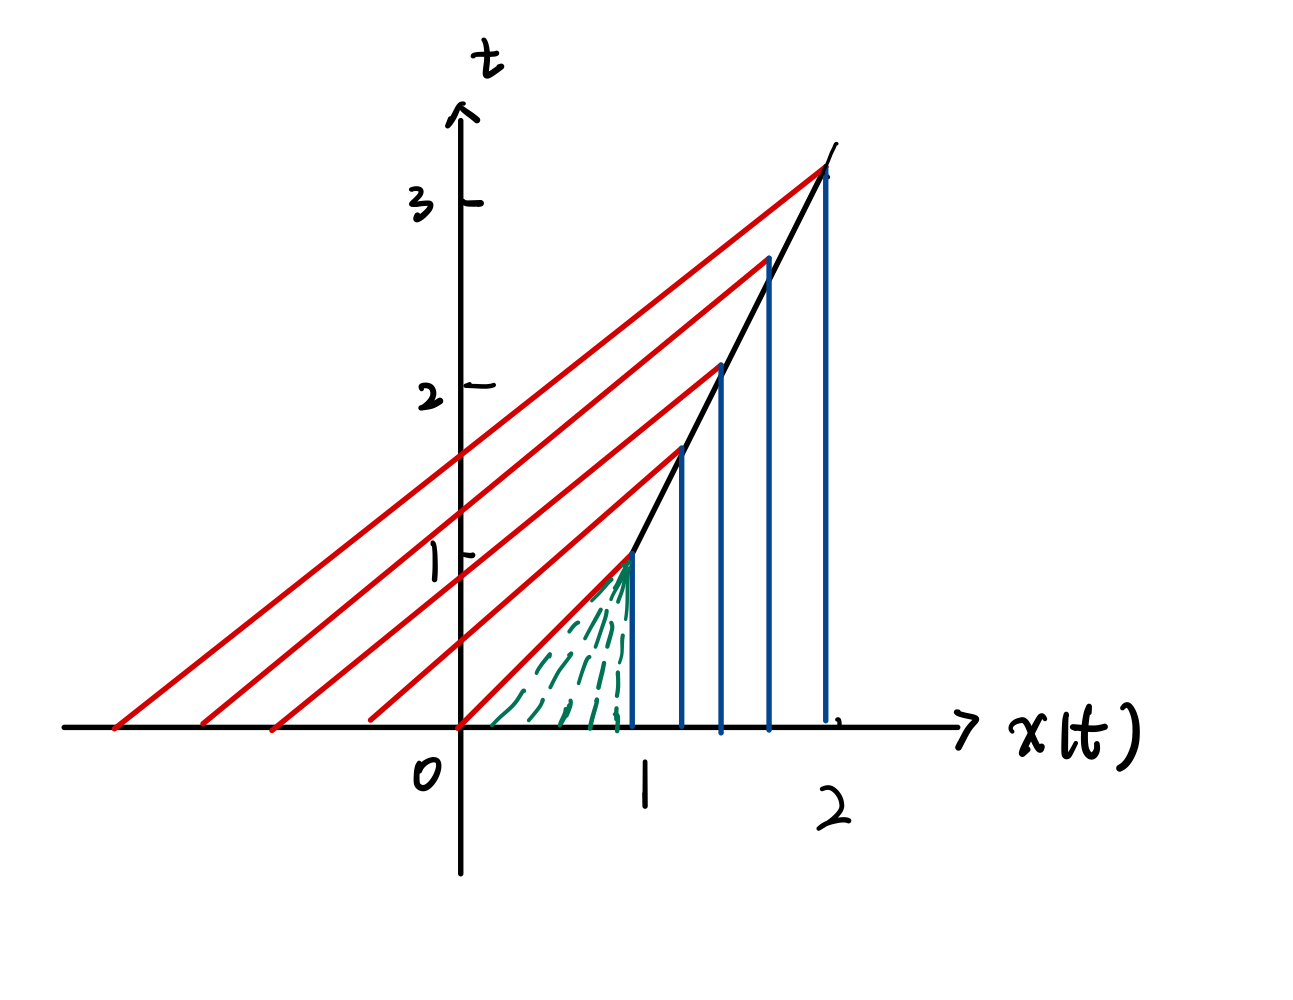
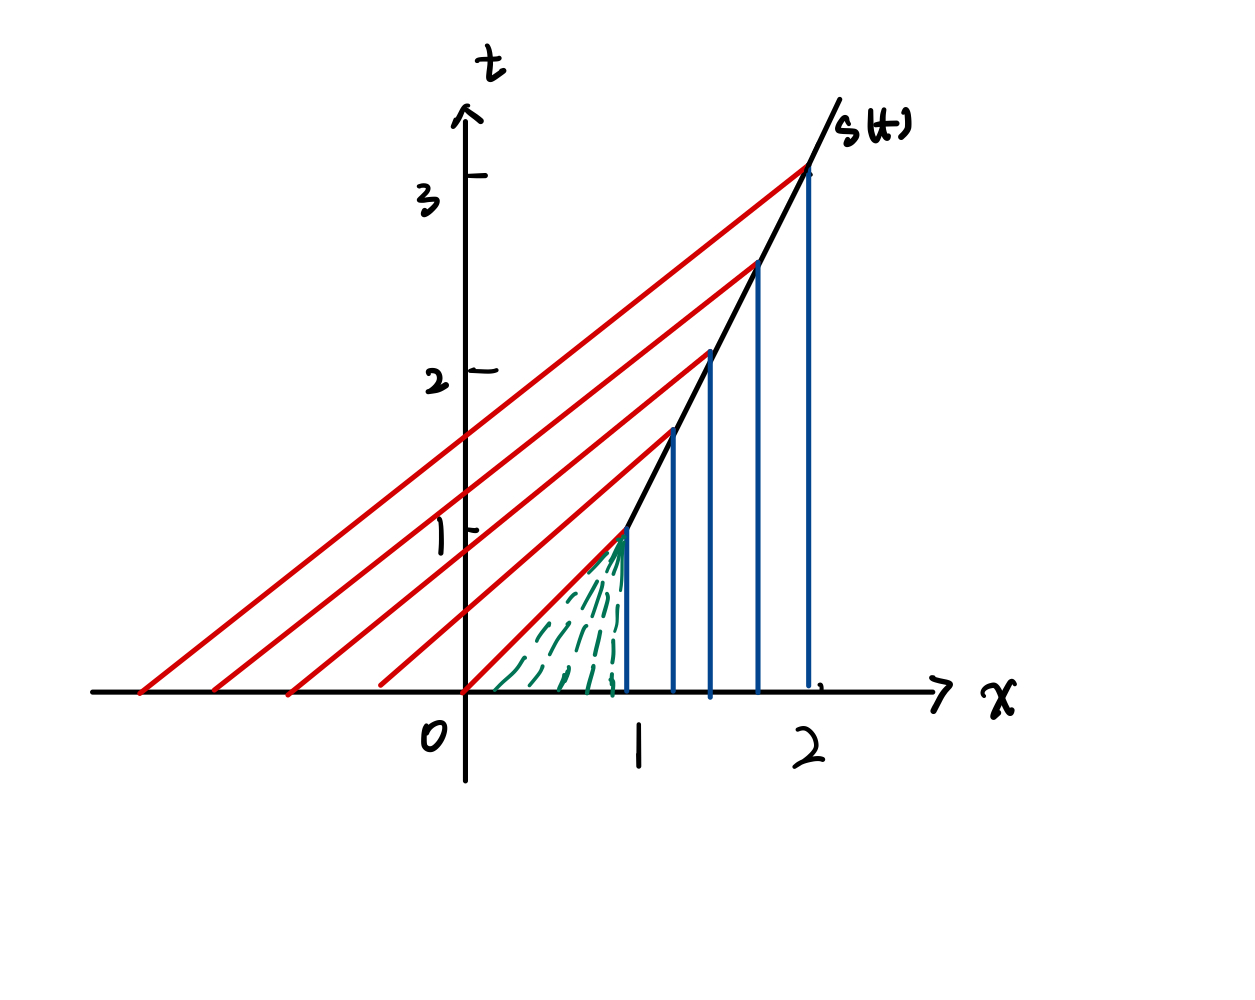
Add files via upload

Changed region(s): [[0.0622, 0.031, 0.9012, 0.868]]

diff --git a/hw6.tex b/hw6.tex
@@ -38,11 +38,11 @@ The characteristic equation is
 \begin{equation*}
     \begin{cases}
      \dot{X} =\frac{x}{1+t}, \\
-      X(0,x) =x.
+      X(0; x) =x.
     \end{cases}
 \end{equation*}
 %This ODE seperates as $\frac{dx}{x}=\frac{dt}{1+t}$, integrating in the both sides, $X=C(1+t)$, and $X(0,x)=C=x$. 
-Solve this ODE, the solution is $X(t,x)=x(1+t)$.\\
+Solve this ODE, the solution is $X(t; x)=x(1+t)$.\\
 Fix $X$, along characteristic curve, transfer $X\to x, x\to x_{0}$, then $x=x_{0}(1+t)\implies x_{0}=\frac{x}{1+t} $.\\
 %$X(t_{0}, y(t_{0},x_{0}))=x_{0}=y(1+t_{0})\implies y=\frac{x_{0}}{1+t_{0}}$.\\
 %Thus , $u(t_{0},x_{0})=u_{0}(y(t_{0},x_{0}))=(\frac{x_{0}}{1+t_{0}})^5$.
@@ -58,7 +58,7 @@ Solve the nonlinear equation $u_{t}+uu_{x}=0$ with the auxiliary condition $u(x,
 The characteristic equation is \begin{equation*}
     \begin{cases}
      \dot{X} =u(x,t)=constant, \\
-      X(0,x) =x.
+      X(0;x) =x.
     \end{cases}
 \end{equation*} %Along characteristic curve, $u(x,t)$ is a constant.\\ %Thus each characteristic curve is a straight line. \\
 %Consider the characteristic line passing through $(x_{0},0)$ and $(x,t)$. Its slope is 
@@ -126,10 +126,10 @@ The characteristic equation is
 \begin{equation*}
     \begin{cases}
         \dot{X}=u=constant, \\
-        X(0)=x_{0}.
+        X(0; x)=x_{0}.
     \end{cases}   
 \end{equation*}
-The solution is $X(x,t)=u(x,0)t+x$. Transfer $X\to x, x\to x_{0}$, the characteristic line is 
+The solution is $X(x; t)=u(x,0)t+x$. Transfer $X\to x, x\to x_{0}$, the characteristic line is 
 \begin{equation*}x(t;x_{0})=
     \begin{cases}
         t+x_{0} & \text{ for } x_{0} \le 0,\\
@@ -145,7 +145,7 @@ Solve $x_{0}$
         x & \text{ for }  x\ge 1.
     \end{cases}
 \end{equation*}
-From the range of $x$, we find that there is a crossing region: when $x\ge 1, x\le t$.\\
+From the range of $x$, we find that the crossing region is $1\le x\le t$.\\
 Thus, at  $t=x=1, i.e. \text{ at } t^{*}=1$, shock happens. It has a discontinuity line, since $A(u)=\int_{}^{}a(u)du=\frac{u^2}{2}$, then
 
 \begin{equation*}
@@ -153,7 +153,7 @@ Thus, at  $t=x=1, i.e. \text{ at } t^{*}=1$, shock happens. It has a discontinui
 \end{equation*}
 And it satisfies entropy confition:
 \[ 1=a(u^{-})>s'(t)=\frac{1}{2}>a(u^{+})=0.\]
-Hence, the discontinuous line starts from point $(x,t)=(1,1)$ and the slope of $s(t)$ is $\frac{1}{2}$, the line is $x=s(t+1)$.\\
+Hence, the discontinuous line starts at $(x,t)=(1,1)$ and the slope of $s(t)$ is $\frac{1}{2}$, the line is $x=s(t)=\dot{s}(t+1)=\frac{1}{2}(t+1)$.\\
 The characteristic line is 
 \begin{figure}[h]
     \centering
@@ -165,9 +165,9 @@ The characteristic line is
 Since $u(x,t)=u(x,0)=u(x_{0})$, the solution is 
 \begin{equation*}u(x,t)=
     \begin{cases}
-        1 & \text{ for } x \le t, x\le s(t+1),\\
-        \frac{1-x}{1-t} & \text{ for } 0\le x\le 1\text{ and } x\ge t,\\
-        0 & \text{ for }  x\ge 1 \text{ and } x\ge s(1+t).
+        1 & \text{ for } x \le t, x\le \dot{s}(t+1),\\
+        \frac{1-x}{1-t} & \text{ for } t\le x\le 1,\\
+        0 & \text{ for }  x\ge 1 \text{ and } x\ge \dot{s}(1+t).
     \end{cases}
 \end{equation*}
 %And for $1\le  x\le t$, there are three possible values, the characteristic lines may intersect each other. 
